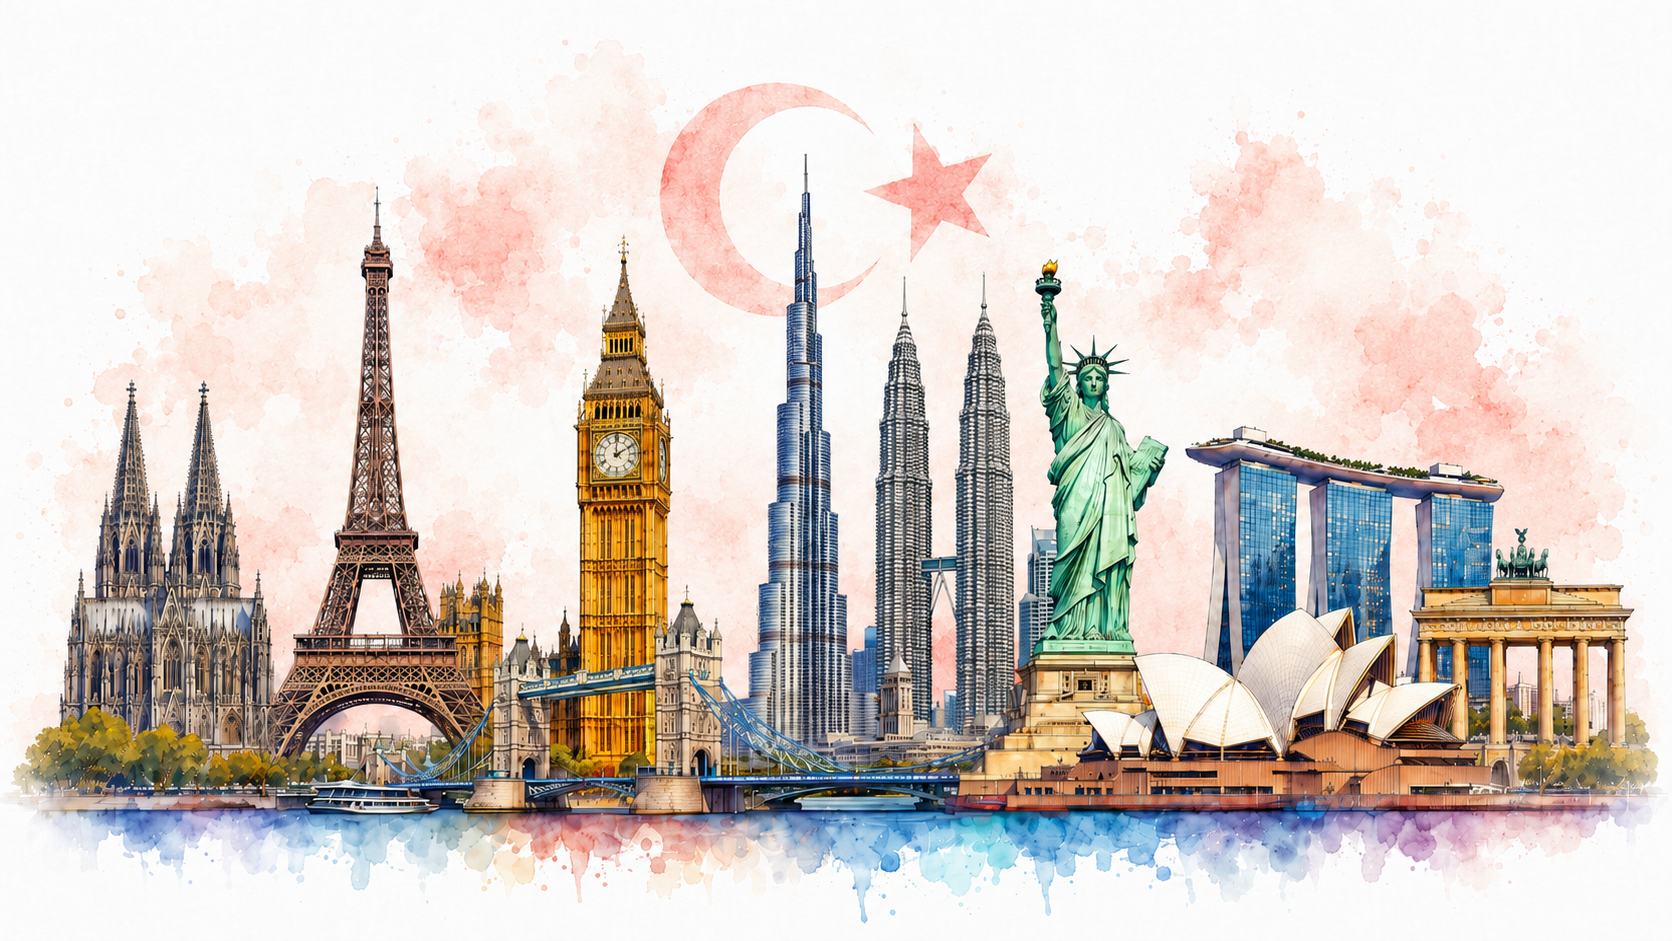
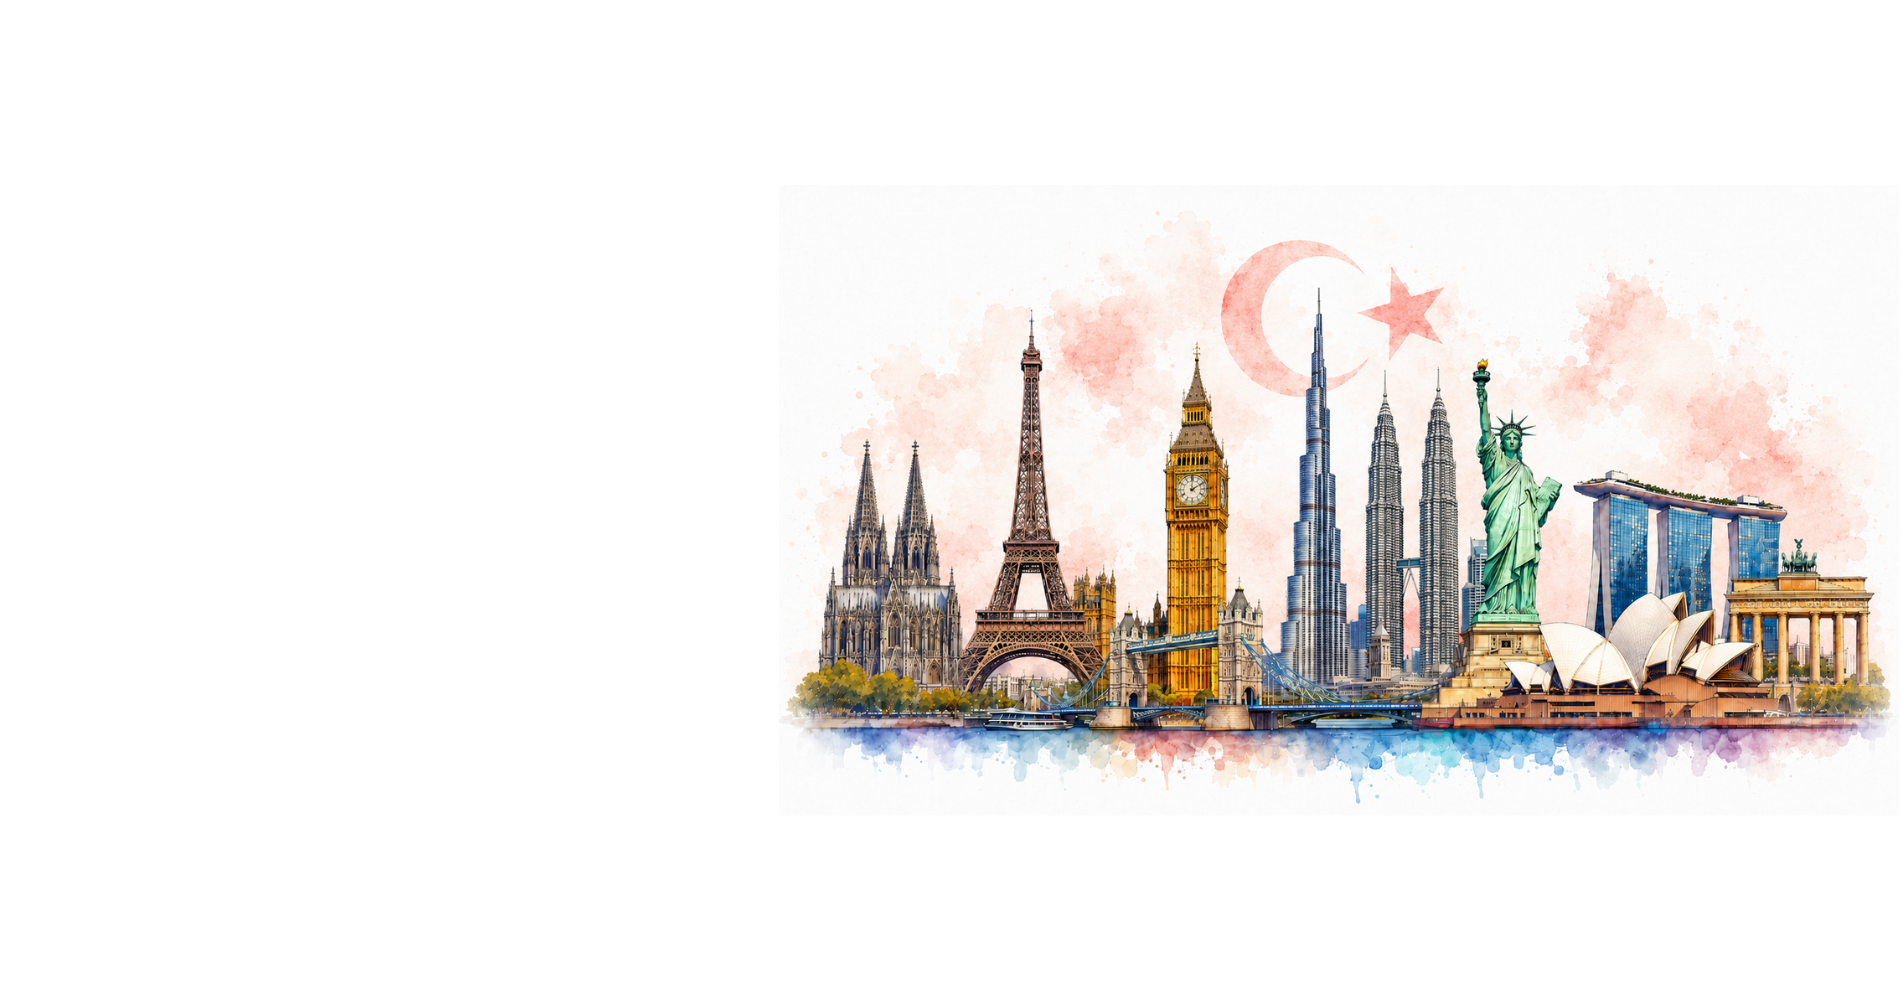
fine tunings

diff --git a/src/components/HeroSection.tsx b/src/components/HeroSection.tsx
@@ -19,18 +19,22 @@ const HeroSection = () => {
   const h = t.hero;
 
   return (
-    <section className="relative flex min-h-[calc(100vh-4rem)] items-center overflow-hidden bg-gradient-hero pt-16">
+    <section className="relative flex min-h-[calc(100vh-4rem)] items-center overflow-hidden bg-white pt-16">
       <div className="pointer-events-none absolute inset-0" aria-hidden="true">
-        <div className="absolute inset-0 bg-[url('/denemeremake.png')] bg-cover bg-center bg-no-repeat opacity-[0.22] lg:opacity-[0.3]" />
-        <div className="absolute inset-0 bg-[radial-gradient(circle_at_14%_18%,rgba(240,253,250,0.96),rgba(240,253,250,0.84)_26%,rgba(240,253,250,0.3)_48%,transparent_64%)]" />
-        <div className="absolute inset-0 bg-[linear-gradient(90deg,rgba(240,253,250,0.98)_0%,rgba(240,253,250,0.92)_24%,rgba(240,253,250,0.82)_44%,rgba(240,253,250,0.48)_62%,rgba(240,253,250,0.18)_78%,rgba(240,253,250,0.08)_100%)]" />
-        <div className="absolute inset-0 bg-[linear-gradient(180deg,rgba(255,255,255,0.2)_0%,rgba(255,255,255,0.04)_32%,rgba(255,255,255,0.14)_100%)]" />
+        <div
+          className="absolute inset-y-0 right-0 hidden w-[56%] bg-no-repeat lg:block"
+          style={{
+            backgroundImage: "url('/newera.png')",
+            backgroundPosition: "right center",
+            backgroundSize: "contain",
+          }}
+        />
       </div>
 
       <div className="container relative z-10 mx-auto px-4 py-8 md:py-10">
-        <div className="max-w-[43rem]">
-          <div className="mb-4 rounded-[2rem] border border-white/65 bg-white/45 px-4 py-4 shadow-[0_20px_55px_-36px_rgba(15,23,42,0.32)] backdrop-blur-xl sm:px-5 lg:px-6">
-            <div className="mb-3 inline-flex w-full items-center gap-2 rounded-full border border-turquoise/22 bg-[linear-gradient(90deg,rgba(255,255,255,0.72),rgba(220,247,242,0.9),rgba(255,255,255,0.72))] px-4 py-2 shadow-sm">
+        <div className="max-w-[770px] lg:max-w-[540px] xl:max-w-[590px]">
+          <div className="mb-4 rounded-[2rem] border border-white/80 bg-[linear-gradient(90deg,rgba(255,255,255,0.96)_0%,rgba(255,255,255,0.93)_38%,rgba(255,255,255,0.82)_62%,rgba(255,255,255,0.58)_82%,rgba(255,255,255,0.18)_100%)] px-4 py-4 shadow-[0_20px_55px_-36px_rgba(15,23,42,0.32)] backdrop-blur-xl sm:px-5 lg:px-6">
+            <div className="mb-3 inline-flex w-full items-center gap-2 rounded-full border border-turquoise/22 bg-[linear-gradient(90deg,rgba(255,255,255,0.86),rgba(220,247,242,0.92),rgba(255,255,255,0.42))] px-4 py-2 shadow-sm">
               <Globe className="h-4 w-4 text-turquoise" />
               <span className="text-sm font-semibold text-turquoise sm:text-[0.95rem]">{h.badge}</span>
             </div>
@@ -53,13 +57,13 @@ const HeroSection = () => {
             </div>
           </div>
 
-          <p className="mb-5 max-w-[34rem] text-sm leading-relaxed text-muted-foreground/88 sm:text-base">
+          <p className="mb-5 max-w-[770px] lg:max-w-[540px] xl:max-w-[590px] text-sm leading-relaxed text-muted-foreground/88 sm:text-base">
             Danışmanlar, dernekler, etkinlikler ve AI destekli araçlarla
             <br />
             diasporadaki yaşamınızı kolaylaştırın.
           </p>
 
-          <div className="max-w-[42rem] space-y-3">
+          <div className="max-w-[770px] lg:max-w-[540px] xl:max-w-[590px] space-y-3">
             <Link to="/auth" className="block">
               <div
                 className={cn(
